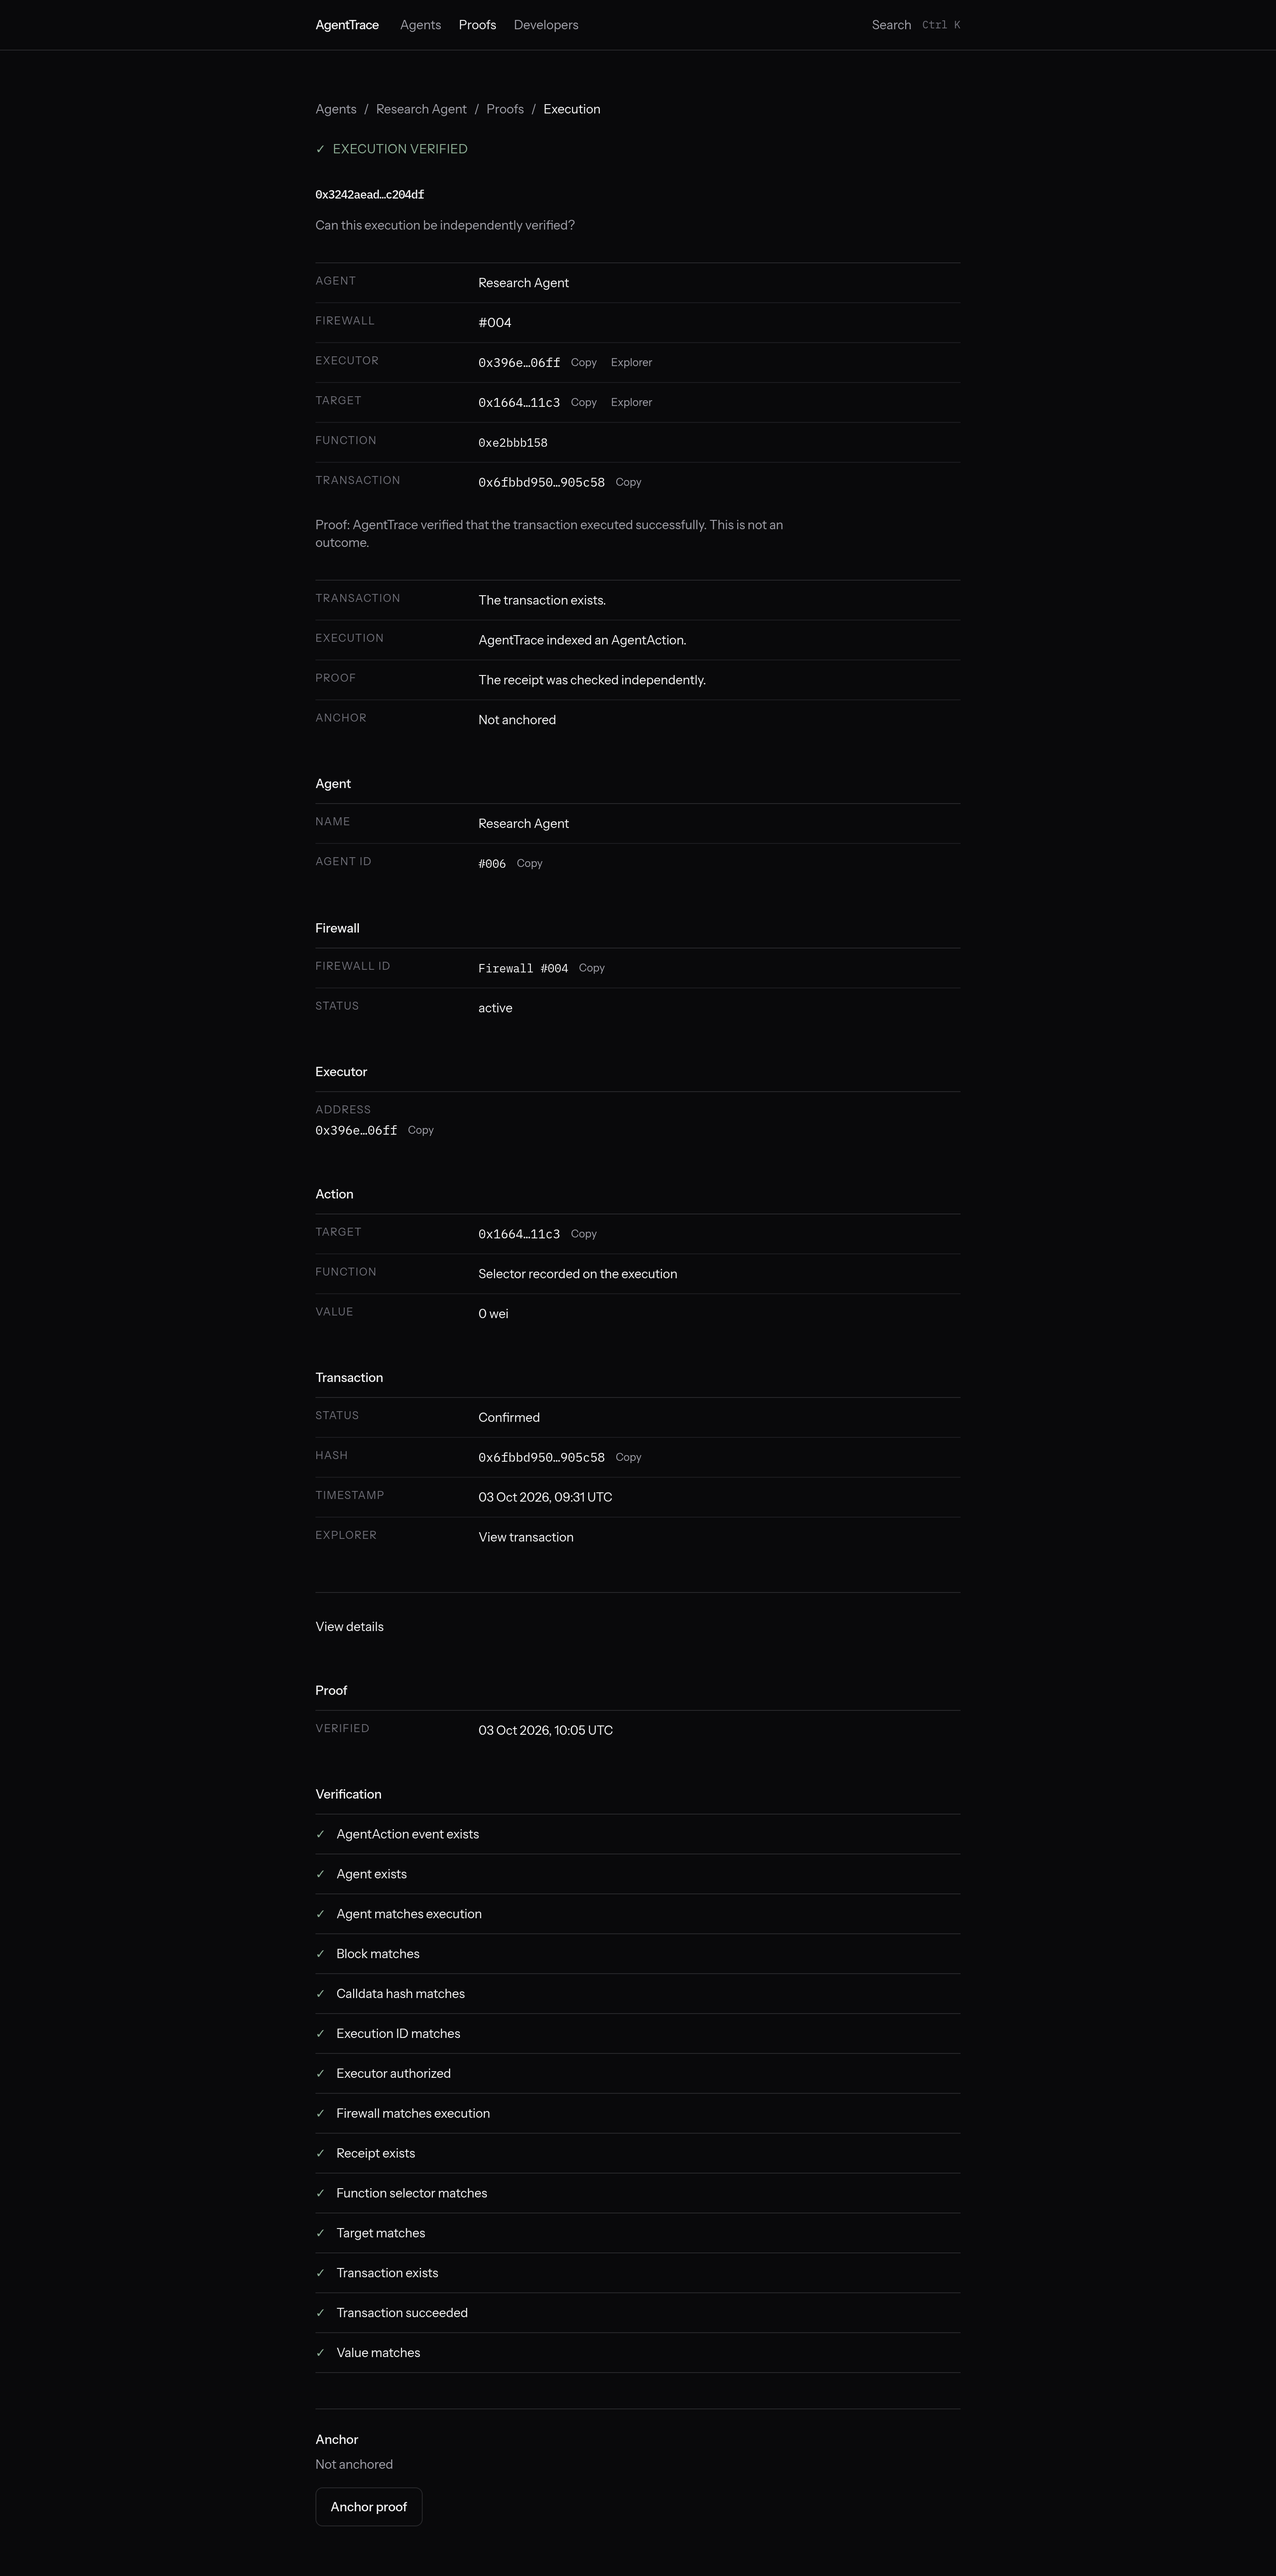
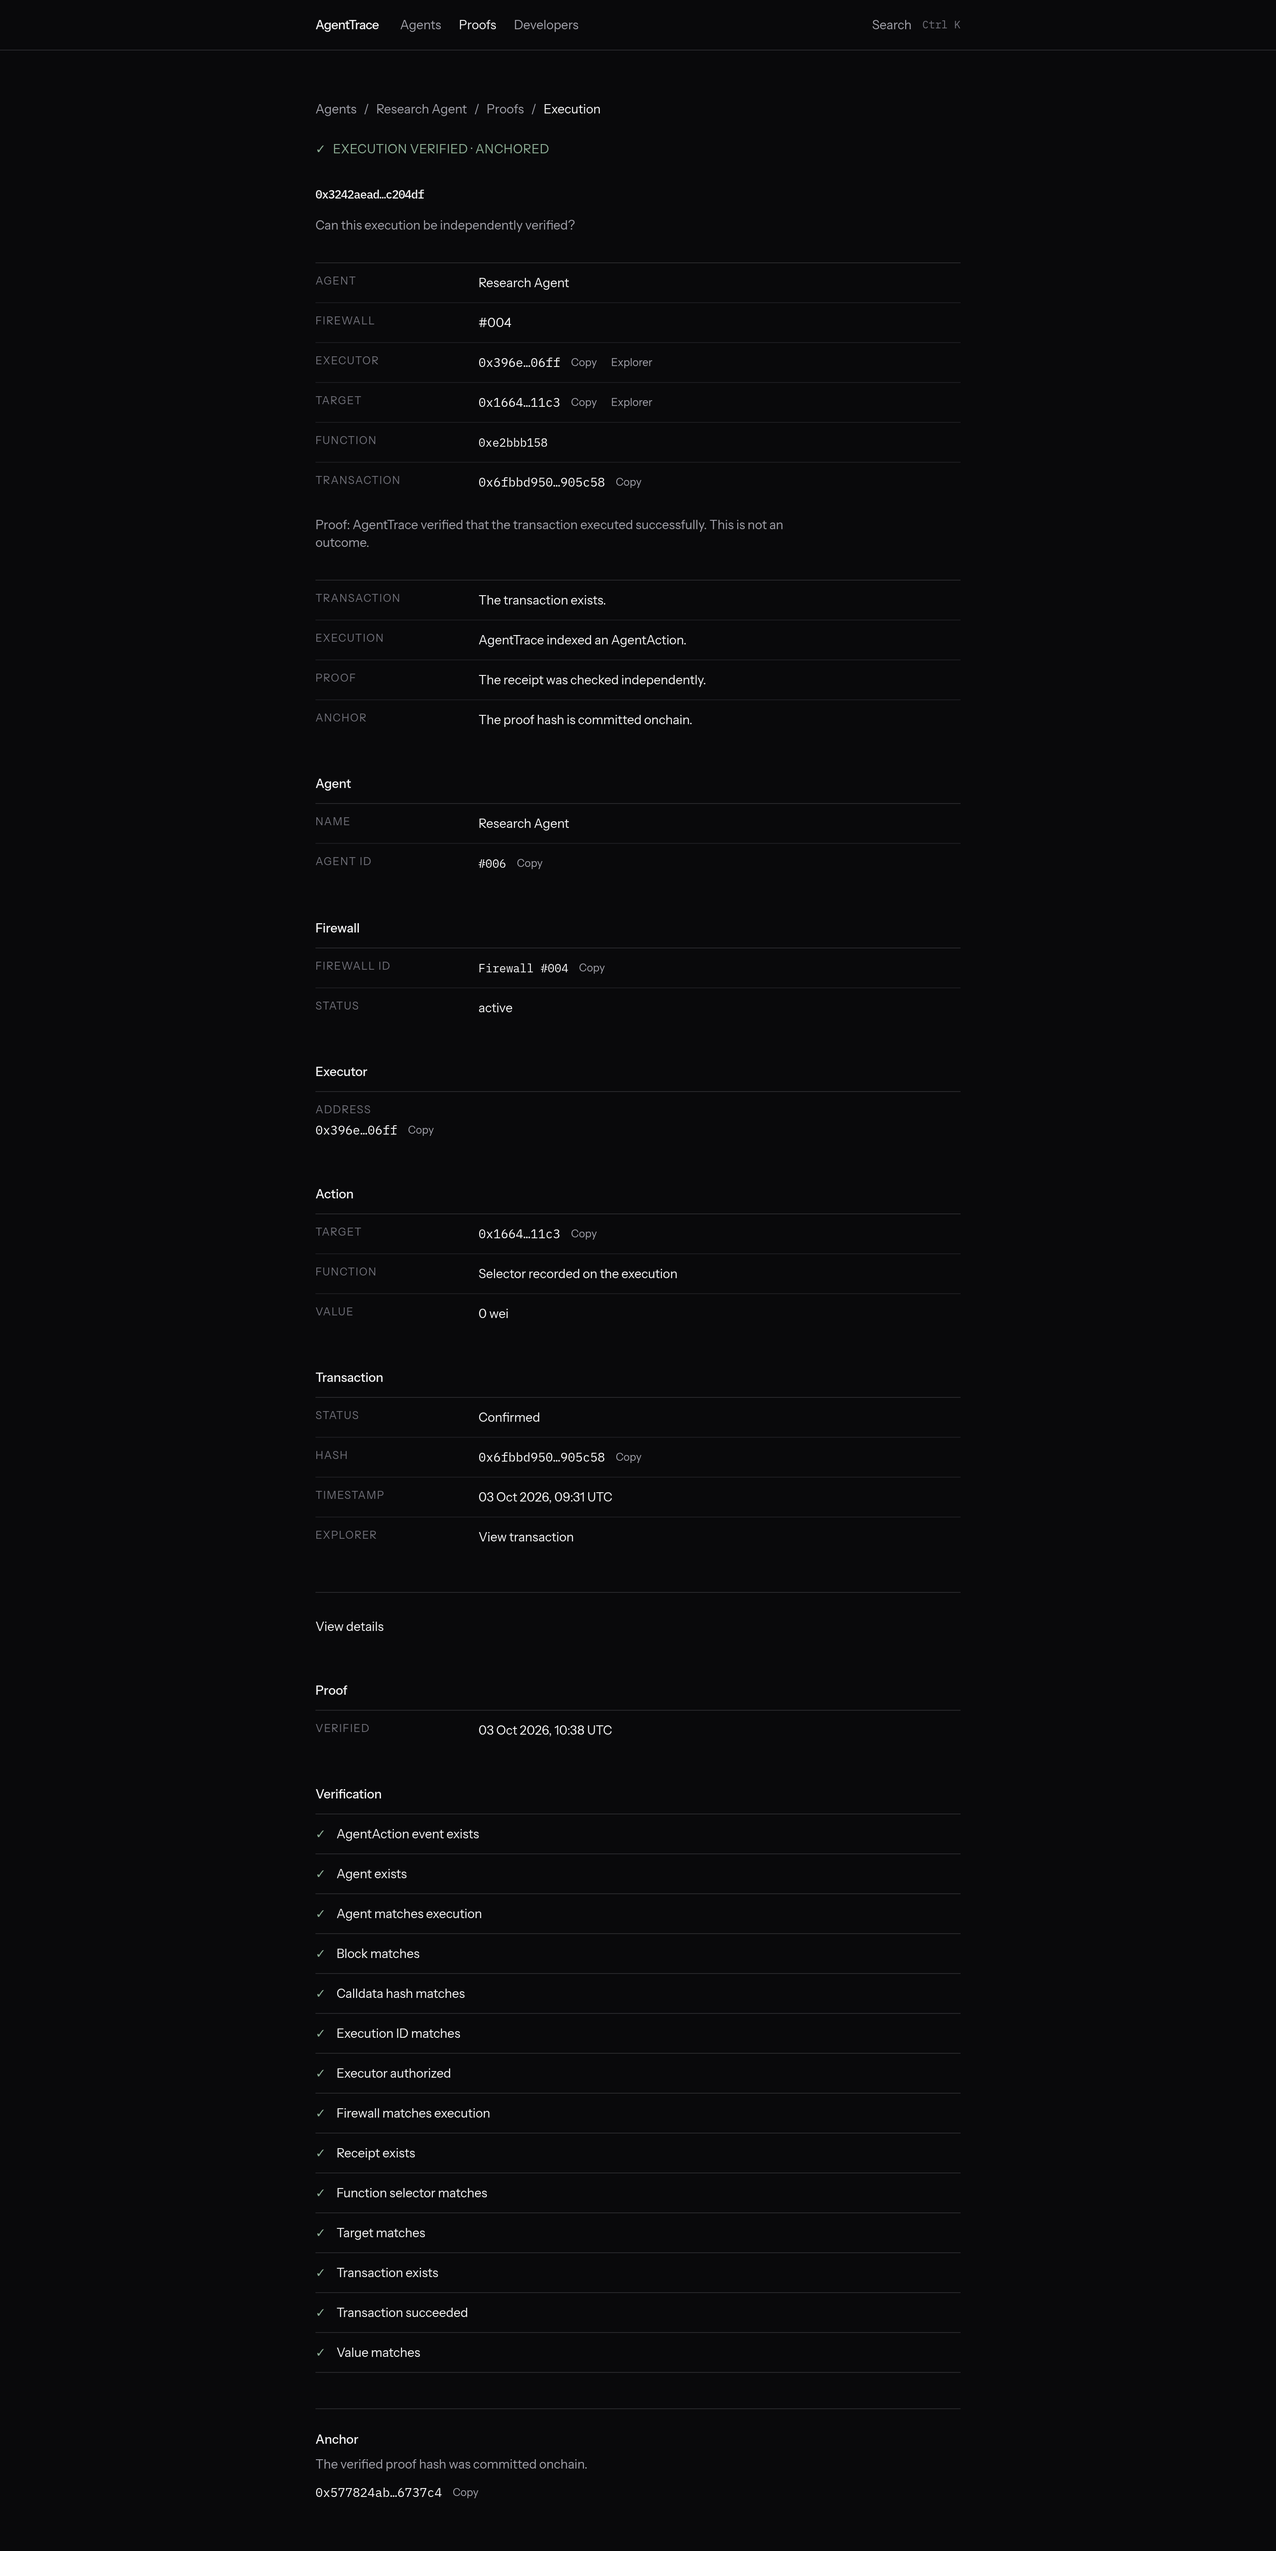
Docs: proof anchoring is live; dedicated verifier, setVerifier tx, example anchors; refreshed screenshots

diff --git a/docs/submission.md b/docs/submission.md
@@ -12,14 +12,14 @@ An agent id is created in `AgentRegistry`. What that agent may call is stored in
 
 - Live app: https://agenttrace-plum.vercel.app
 - Demo video (82 s, real Monad testnet transactions): [docs/demo.mp4](demo.mp4)
-- A complete live example: agent [#006](https://agenttrace-plum.vercel.app/agents/6), firewall [#004](https://agenttrace-plum.vercel.app/firewalls/4), execution proof [0x3242aead…](https://agenttrace-plum.vercel.app/proofs/0x3242aeadc1ae0b511746852d623e71db91e3a49dbbe27662a886d65260c204df), and outcome [Deposited 100](https://agenttrace-plum.vercel.app/outcomes/0x3242aeadc1ae0b511746852d623e71db91e3a49dbbe27662a886d65260c204df); deposit transaction [0x6fbbd950…](https://testnet.monadvision.com/tx/0x6fbbd95042890cc346043ec2a79bb070929588580f49b197a4408cef47905c58)
-- `/demo`: identity → firewall → allowed deposit → proof → outcome → blocked withdraw. Running it needs a browser wallet on Monad testnet with a little testnet MON (under 0.1 MON for the five transactions); the withdraw is rejected by the firewall in simulation, so no transaction is sent for it
+- A complete live example: agent [#006](https://agenttrace-plum.vercel.app/agents/6), firewall [#004](https://agenttrace-plum.vercel.app/firewalls/4), execution proof [0x3242aead…](https://agenttrace-plum.vercel.app/proofs/0x3242aeadc1ae0b511746852d623e71db91e3a49dbbe27662a886d65260c204df) (anchored onchain in [`0x577824ab…`](https://testnet.monadvision.com/tx/0x577824ab9bef8a84f9b2b0063d8bd580986e456d10a7837861483f9bc26737c4)), and outcome [Deposited 100](https://agenttrace-plum.vercel.app/outcomes/0x3242aeadc1ae0b511746852d623e71db91e3a49dbbe27662a886d65260c204df); deposit transaction [0x6fbbd950…](https://testnet.monadvision.com/tx/0x6fbbd95042890cc346043ec2a79bb070929588580f49b197a4408cef47905c58)
+- `/demo`: identity → firewall → allowed deposit → proof → outcome → onchain anchor → blocked withdraw. Running it needs a browser wallet on Monad testnet with a little testnet MON (under 0.1 MON for the five transactions); the withdraw is rejected by the firewall in simulation, so no transaction is sent for it
 - Passport, firewall, proof, and outcome pages, which cite indexed chain data and link to the Monad explorer
 - `docs/contracts.md` for the proof hash
 - `npm run test:contracts` for local EVM checks of the registry, firewall, proof, demo, developer API, and reputation logic
 - Screenshots: [docs/screenshots](screenshots)
 
-Earlier test runs registered agents #001–#005, #007, and #008 from the same wallet. Onchain history cannot be deleted, so they were deactivated with `AgentRegistry.deactivateAgent`; the agents list hides deactivated agents by default and shows them under All or Inactive.
+Earlier test runs registered agents #001–#005 and #007–#011 from the same wallet. Onchain history cannot be deleted, so they were deactivated with `AgentRegistry.deactivateAgent`; the agents list hides deactivated agents by default and shows them under All or Inactive.
 
 ## Deployment
 
@@ -34,7 +34,12 @@ Contracts on Monad testnet (chain id 10143), deployed 3 October 2026:
 | AgentProof | Immutable proof-hash anchors | [`0x3ea5602072d6028f569f45ea164d5cbe36cbbd3e`](https://testnet.monadvision.com/address/0x3ea5602072d6028f569f45ea164d5cbe36cbbd3e) | 67788400 | [`0x4e017247…`](https://testnet.monadvision.com/tx/0x4e0172478ce7dde026c13d6c020cd5788e4ba64a9cf42d38554c02643b2d95b4) |
 | DemoProtocol | Deposit, swap, and withdraw demo target | [`0x1664be58ee54af91c756428f466bad6e4f9911c3`](https://testnet.monadvision.com/address/0x1664be58ee54af91c756428f466bad6e4f9911c3) | 67788404 | [`0xd9f5fad6…`](https://testnet.monadvision.com/tx/0xd9f5fad6e0043f9980e084643ea60dc47c6572139072de9f6ded64c20f38bdae) |
 
-`AGENT_PROOF_VERIFIER_PRIVATE_KEY` is not set on the hosted app, so proofs are verified from receipts and stored with their proof hash, but not anchored onchain in `AgentProof`.
+Proof anchoring is on. The AgentProof verifier is a dedicated server wallet, [`0x77a55a4980769F543Ea5Bb799F4f49A8c1Cd0D85`](https://testnet.monadvision.com/address/0x77a55a4980769F543Ea5Bb799F4f49A8c1Cd0D85), set by the contract owner with `setVerifier` ([`0x9f239ab5…`](https://testnet.monadvision.com/tx/0x9f239ab50f69b909d7ff07d3ba4cedb6e92a81cf092f439acda90b03dd573208)). After a proof is receipt-verified, the hosted app sends `anchorProof` with its proof hash, and `/demo` does this automatically after the outcome verifies. Anchors cannot be edited or repeated. Two live examples:
+
+- Agent #006 showcase execution: anchor [`0x577824ab…`](https://testnet.monadvision.com/tx/0x577824ab9bef8a84f9b2b0063d8bd580986e456d10a7837861483f9bc26737c4)
+- A `/demo` run on the live site (agent #011, execution `0x345347b7…`): anchor [`0x466a2c1e…`](https://testnet.monadvision.com/tx/0x466a2c1e891a392991fbeb2ea4135ba0a32aacbde3f5cd28fec5dc43e6749949), sent automatically by the demo flow
+
+`AgentProof.isAnchored(executionId)` returns true for both. `getAnchor` returns the proof hash, agent id, firewall id, execution transaction, and the verifier address.
 
 ## Judge questions
 

diff --git a/README.md b/README.md
@@ -51,7 +51,7 @@ Implemented in this repository:
 - Firewall creation, executor, targets, functions, value policy, pause, unpause, and deactivation
 - Execution through `AgentFirewall.execute`, with revert of the whole transaction if the target reverts
 - Receipt-based proof verification and deterministic proof hashing
-- Optional onchain proof anchoring in `AgentProof` when a verifier key is configured
+- Onchain proof anchoring in `AgentProof`: after a proof is receipt-verified, the server verifier commits its proof hash onchain (live on the hosted app)
 - Outcome verification for an expected event, and for Demo Protocol `deposits` or `swapped` when the onchain value matches
 - Indexed agent directory, passport, activity, proofs, and outcomes
 - Developer API, hashed API keys, rate limits, and HMAC-signed webhooks
@@ -83,7 +83,7 @@ Not implemented:
 | AgentProof | Immutable proof-hash anchors | [`0x3ea5602072d6028f569f45ea164d5cbe36cbbd3e`](https://testnet.monadvision.com/address/0x3ea5602072d6028f569f45ea164d5cbe36cbbd3e) | 67788400 | [`0x4e017247…`](https://testnet.monadvision.com/tx/0x4e0172478ce7dde026c13d6c020cd5788e4ba64a9cf42d38554c02643b2d95b4) |
 | DemoProtocol | Deposit, swap, and withdraw demo target | [`0x1664be58ee54af91c756428f466bad6e4f9911c3`](https://testnet.monadvision.com/address/0x1664be58ee54af91c756428f466bad6e4f9911c3) | 67788404 | [`0xd9f5fad6…`](https://testnet.monadvision.com/tx/0xd9f5fad6e0043f9980e084643ea60dc47c6572139072de9f6ded64c20f38bdae) |
 
-Deployed on 3 October 2026 by `0x4f3f999B60750cEf97D7D56c75f30F050A583D53` with `npm run deploy:testnet`. `AgentFirewall.agentRegistry()` returns the registry above. The AgentProof verifier is the deployer address; the owner can change it with `setVerifier`. Addresses stay null until a confirmed transaction exists. Environment variables may override the record. See [docs/contracts.md](docs/contracts.md).
+Deployed on 3 October 2026 by `0x4f3f999B60750cEf97D7D56c75f30F050A583D53` with `npm run deploy:testnet`. `AgentFirewall.agentRegistry()` returns the registry above. The AgentProof verifier is a dedicated server wallet, [`0x77a55a4980769F543Ea5Bb799F4f49A8c1Cd0D85`](https://testnet.monadvision.com/address/0x77a55a4980769F543Ea5Bb799F4f49A8c1Cd0D85), set by the owner with `setVerifier` ([`0x9f239ab5…`](https://testnet.monadvision.com/tx/0x9f239ab50f69b909d7ff07d3ba4cedb6e92a81cf092f439acda90b03dd573208)). The hosted app holds its key as a sensitive server environment variable and anchors each verified proof hash, for example agent #006 ([`0x577824ab…`](https://testnet.monadvision.com/tx/0x577824ab9bef8a84f9b2b0063d8bd580986e456d10a7837861483f9bc26737c4)). Addresses stay null until a confirmed transaction exists. Environment variables may override the record. See [docs/contracts.md](docs/contracts.md).
 
 ## Deploying the contracts to Monad testnet
 
@@ -206,8 +206,6 @@ From the live deployment on Monad testnet. Agent #006 is a complete example: ide
 
 ## Roadmap
 
-- Deploy the four contracts to Monad testnet (`npm run deploy:testnet`) and commit the confirmed addresses
-- Configure the proof-anchor verifier
 - Let a configured executor submit `execute` from the API without weakening firewall checks
 
 ## Documentation

diff --git a/docs/contracts.md b/docs/contracts.md
@@ -71,6 +71,8 @@ Events: `ExecutionProofAnchored`, `VerifierUpdated`.
 
 Authorization: the constructor sets `owner` to the deployer and `verifier` to the address passed in. Anchors cannot be edited. The same execution id or proof hash cannot be anchored twice.
 
+On the testnet deployment the verifier is a dedicated server wallet, [`0x77a55a4980769F543Ea5Bb799F4f49A8c1Cd0D85`](https://testnet.monadvision.com/address/0x77a55a4980769F543Ea5Bb799F4f49A8c1Cd0D85), set with `setVerifier` in [`0x9f239ab5…`](https://testnet.monadvision.com/tx/0x9f239ab50f69b909d7ff07d3ba4cedb6e92a81cf092f439acda90b03dd573208). Example anchor: [`0x577824ab…`](https://testnet.monadvision.com/tx/0x577824ab9bef8a84f9b2b0063d8bd580986e456d10a7837861483f9bc26737c4) (agent #006).
+
 ### Proof hash
 
 The verifier and this contract use the same encoding. Field order is fixed. It does not use JSON.

diff --git a/docs/architecture.md b/docs/architecture.md
@@ -55,7 +55,7 @@ Derived rows can be rebuilt by scanning those logs again.
 
 A temporary RPC failure is `temporary_error`, not a failed proof and not a verified proof.
 
-The proof hash is documented in [contracts.md](contracts.md). Anchoring sends that hash to `AgentProof` only when the verifier key and proof contract are configured. A mismatch does not get anchored.
+The proof hash is documented in [contracts.md](contracts.md). Anchoring sends that hash to `AgentProof` only when the verifier key and proof contract are configured (both are on the hosted app). A mismatch does not get anchored. Each anchor event is also kept in the private chain cache, so another serverless instance shows the anchor transaction; if the cache lacks it, the server reads `AgentProof.isAnchored` and `getAnchor` before ever sending a second anchor.
 
 ## Outcome verification
 
